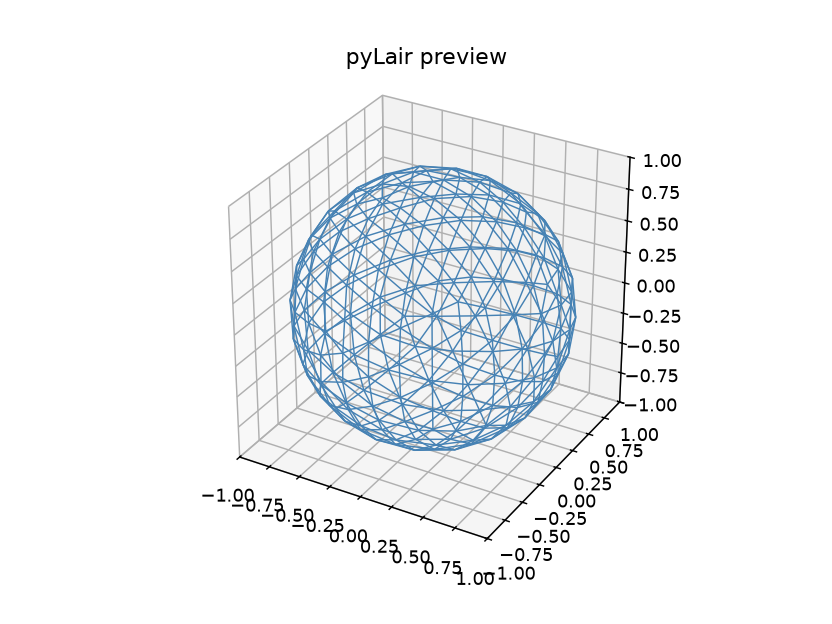
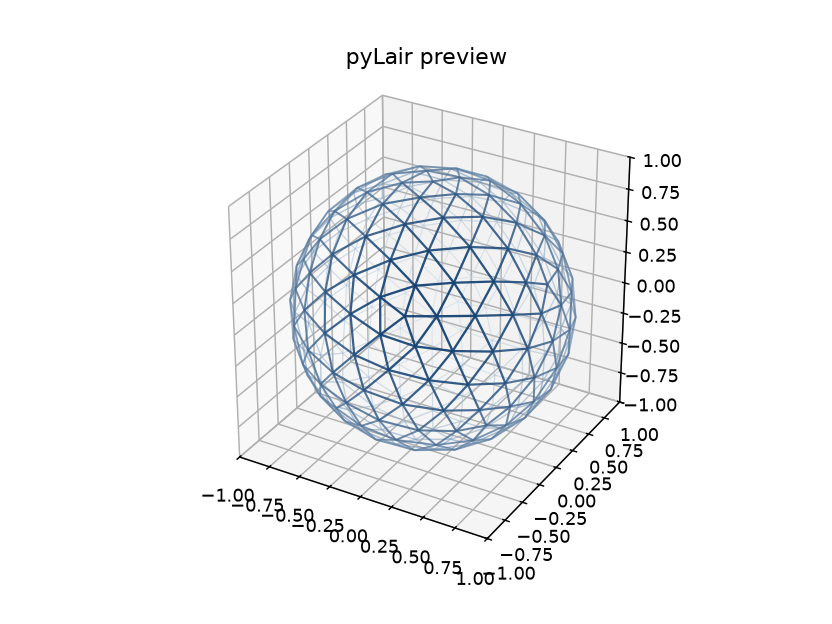
Depth-cue pyLair's wireframe preview renderer and regenerate book images
render_preview_png_bytes() colored every strut identically regardless of
distance from the camera, so front and back struts on a dome/sphere were
visually indistinguishable and the wireframe read as a flat net instead
of a 3D shape. Struts are now colored/weighted by their projected depth
(near = dark/opaque, far = pale/faded), computed via the axes' own
projection matrix and verified empirically rather than assumed.

The depth-cue logic is factored out as add_depth_cued_wireframe() so
composite, multi-panel book figures can reuse the exact same math
instead of duplicating it. Regenerated every book image that is an
actual pyLair wireframe render (single-dome previews plus the
elongation, projection-before/after, and six-environments composites),
reconstructing each one's original real parameters and verifying the
resulting stats still match what's already published in the chapter
text. Flat 2D diagrams, pyFit nesting images, and bar/scatter charts are
unaffected and untouched.

Changed region(s): [[0.3438, 0.2436, 0.7188, 0.7308]]

diff --git a/pylair/preview.py b/pylair/preview.py
@@ -26,7 +26,13 @@ import numpy as np
 import matplotlib
 matplotlib.use('Agg')
 import matplotlib.pyplot as plt
+from mpl_toolkits.mplot3d import proj3d
 from mpl_toolkits.mplot3d.art3d import Line3DCollection
+
+# Depth-cue colors: near struts render close to the original opaque
+# steelblue, far struts fade toward a pale, low-contrast gray-blue.
+_NEAR_RGB = np.array([0.07, 0.25, 0.45])
+_FAR_RGB = np.array([0.75, 0.82, 0.88])
 
 
 def equal_axis_limits(vertices):
@@ -48,18 +54,46 @@ def equal_axis_limits(vertices):
   return tuple((mids[i] - half_range, mids[i] + half_range) for i in range(3))
 
 
+def add_depth_cued_wireframe(ax, V, C):
+  # get_proj() bakes in the current view and axis limits, so this must be
+  # called only after the axes' limits/aspect are already set. Lower
+  # projected z is nearer the camera in this view (verified empirically,
+  # not assumed) -- without this cue, front and back struts are the same
+  # color and the wireframe reads as a flat net instead of a sphere.
+  segments = [[V[c[0]], V[c[1]]] for c in C]
+
+  proj = ax.get_proj()
+  midpoints = np.array([(np.array(a) + np.array(b)) / 2. for a, b in segments])
+  depths = np.array([proj3d.proj_transform(*pt, proj)[2] for pt in midpoints])
+  depth_range = depths.max() - depths.min()
+  t = np.zeros_like(depths) if depth_range == 0 else (depths - depths.min()) / depth_range
+
+  colors = _NEAR_RGB[None, :] * (1 - t)[:, None] + _FAR_RGB[None, :] * t[:, None]
+  alphas = 0.95 - 0.55 * t
+  rgba = np.concatenate([colors, alphas[:, None]], axis=1)
+  linewidths = 1.3 - 0.7 * t
+
+  # Draw farthest-first so nearer struts are painted on top, reinforcing
+  # the depth cue instead of leaving draw order to chance.
+  order = np.argsort(-t)
+  ax.add_collection3d(Line3DCollection(
+      [segments[i] for i in order],
+      colors=rgba[order],
+      linewidths=linewidths[order],
+  ))
+
+
 def render_preview_png_bytes(V, C):
   fig = plt.figure()
   ax = fig.add_subplot(projection='3d')
-
-  segments = [[V[c[0]], V[c[1]]] for c in C]
-  ax.add_collection3d(Line3DCollection(segments, colors='steelblue', linewidths=0.8))
 
   xlim, ylim, zlim = equal_axis_limits(V)
   ax.set_xlim(*xlim)
   ax.set_ylim(*ylim)
   ax.set_zlim(*zlim)
   ax.set_box_aspect((1, 1, 1))
+
+  add_depth_cued_wireframe(ax, V, C)
 
   ax.set_title('pyLair preview')
   buf = io.BytesIO()
